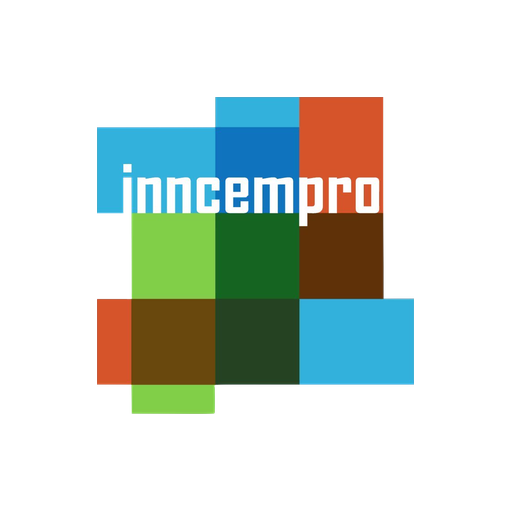
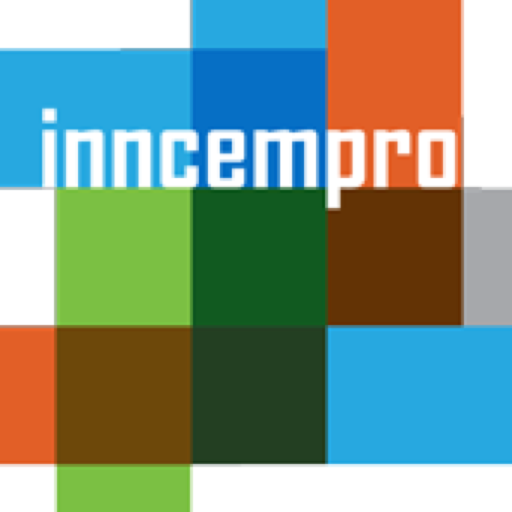
Updates

diff --git a/sw.js b/sw.js
@@ -93,10 +93,10 @@ define(['./workbox-5d155c7a'], (function (workbox) { 'use strict';
     "revision": "aafb99953f9a01fa18ee7d4cfc99a645"
   }, {
     "url": "icon-512.png",
-    "revision": "4a56e55cfc10ff8ba96756940dcc9673"
+    "revision": "156ed7c9fb3fc3be26fc4ec980596d6f"
   }, {
     "url": "icon-192.png",
-    "revision": "a03f76facabf13d8051c1bdb1ebe9aee"
+    "revision": "bde7439e6a71baa99c1c68aace2277d1"
   }, {
     "url": "icon-1024.png",
     "revision": "019295de80d1aa0420c52e27b9225675"
@@ -105,13 +105,13 @@ define(['./workbox-5d155c7a'], (function (workbox) { 'use strict';
     "revision": "8a09960e5e25083d29629053495df4ac"
   }, {
     "url": "favicon-32.png",
-    "revision": "281e03a328d57236e7c71b5d07f48003"
+    "revision": "f817247d278f9a21913c854070554025"
   }, {
     "url": "favicon-16.png",
     "revision": "32cc037009d5d2975e557a4bc8c94cab"
   }, {
     "url": "apple-touch-icon.png",
-    "revision": "0214a924cfd2a2be5adb183f567e37c5"
+    "revision": "70ab32e84b5d418848b39366c03a7401"
   }, {
     "url": "assets/index-DO6yLyEl.css",
     "revision": null
@@ -120,22 +120,22 @@ define(['./workbox-5d155c7a'], (function (workbox) { 'use strict';
     "revision": null
   }, {
     "url": "apple-touch-icon.png",
-    "revision": "0214a924cfd2a2be5adb183f567e37c5"
+    "revision": "70ab32e84b5d418848b39366c03a7401"
   }, {
     "url": "favicon-16.png",
     "revision": "32cc037009d5d2975e557a4bc8c94cab"
   }, {
     "url": "favicon-32.png",
-    "revision": "281e03a328d57236e7c71b5d07f48003"
+    "revision": "f817247d278f9a21913c854070554025"
   }, {
     "url": "favicon.ico",
     "revision": "8a09960e5e25083d29629053495df4ac"
   }, {
     "url": "icon-192.png",
-    "revision": "a03f76facabf13d8051c1bdb1ebe9aee"
+    "revision": "bde7439e6a71baa99c1c68aace2277d1"
   }, {
     "url": "icon-512.png",
-    "revision": "4a56e55cfc10ff8ba96756940dcc9673"
+    "revision": "156ed7c9fb3fc3be26fc4ec980596d6f"
   }, {
     "url": "icon-maskable-512.png",
     "revision": "aafb99953f9a01fa18ee7d4cfc99a645"
